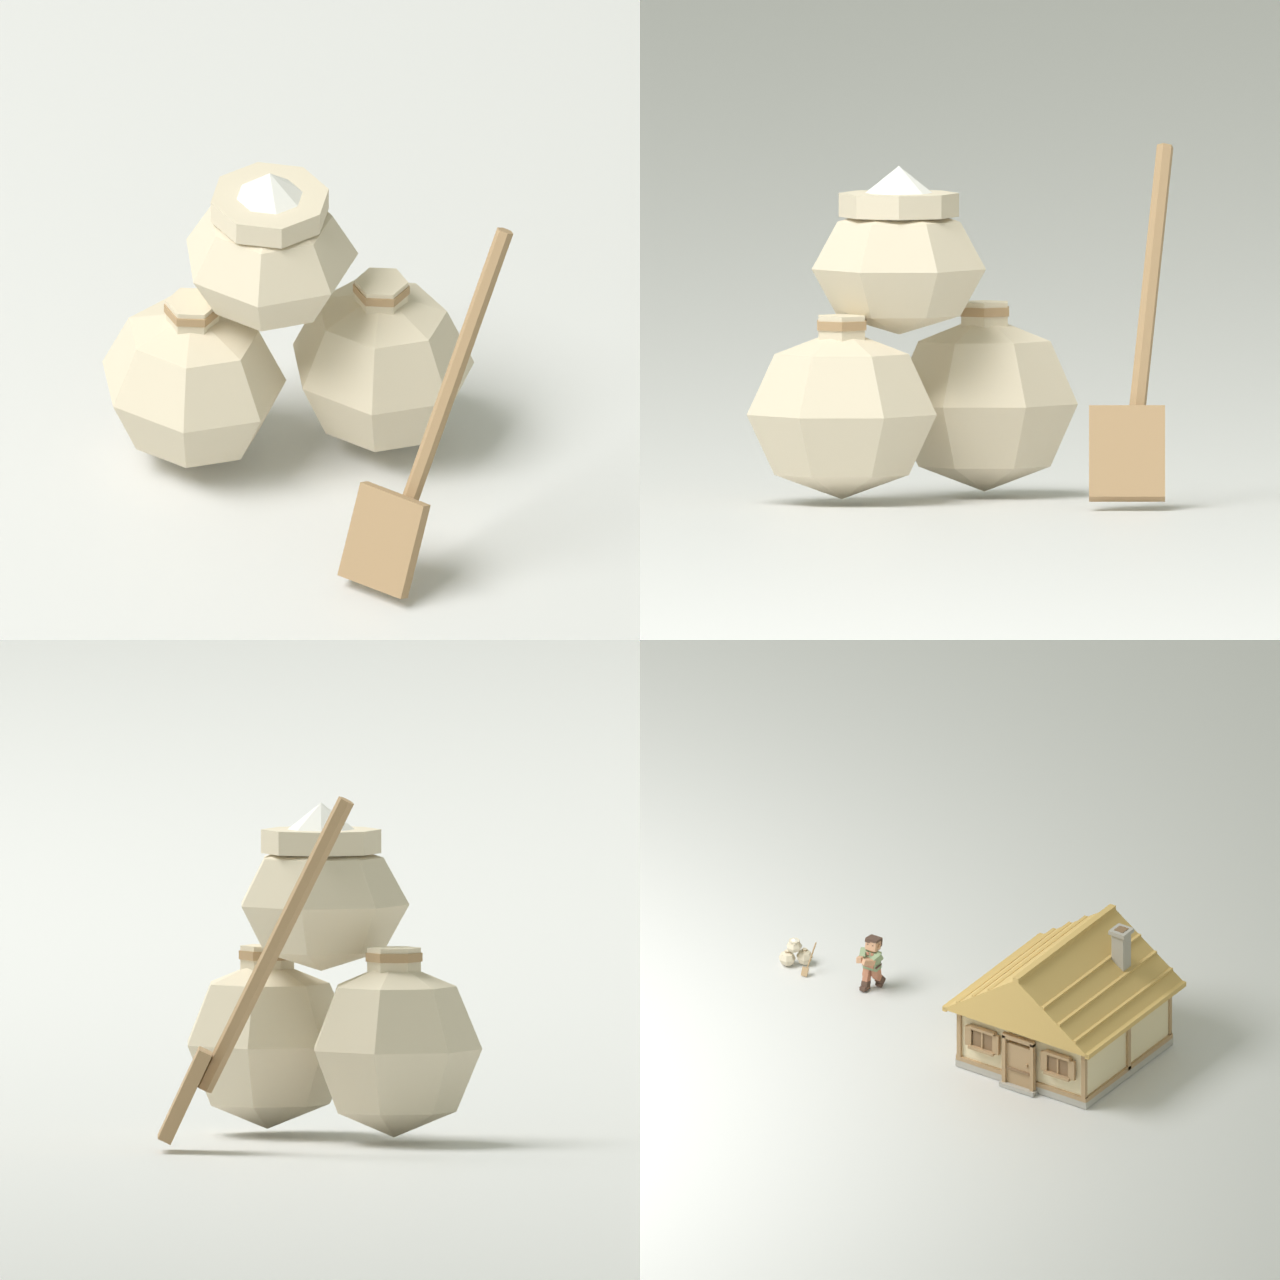
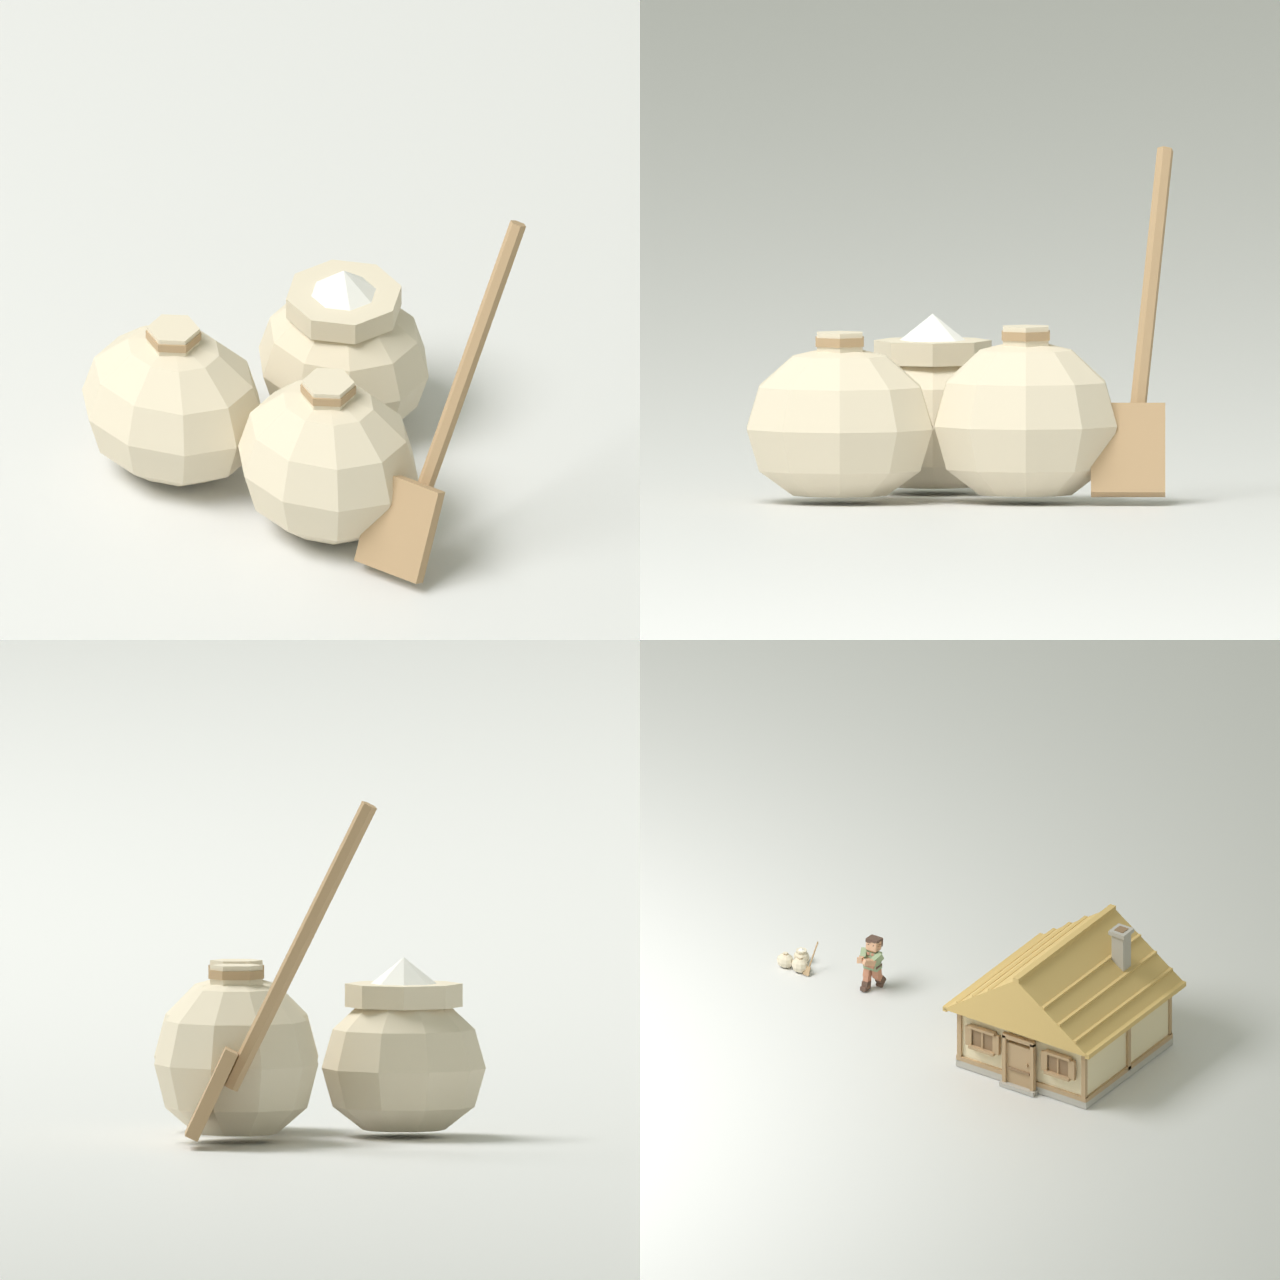
Art: ground salter sacks and add model overview

diff --git a/artifacts/graphics/astra/make_contact_sheet.py b/artifacts/graphics/astra/make_contact_sheet.py
@@ -1,0 +1,59 @@
+"""Create a single review image from the candidate three-quarter views."""
+
+from pathlib import Path
+from PIL import Image, ImageDraw, ImageFont
+
+ROOT = Path(__file__).resolve().parent
+MODELS = [
+    ("hall", "Sala del rey"),
+    ("stall-pedlar", "Puesto · mercader"),
+    ("stall-factor", "Puesto · factor"),
+    ("stall-salter", "Puesto · sal"),
+    ("quarry-face-intact", "Cantera · intacta"),
+    ("quarry-face-mined", "Cantera · explotada"),
+    ("quarry-face-exhausted", "Cantera · agotada"),
+    ("crag-1", "Peñasco 1"),
+    ("crag-2", "Peñasco 2"),
+    ("crag-3", "Peñasco 3"),
+    ("crag-4", "Peñasco 4"),
+    ("crag-5", "Peñasco 5"),
+    ("cairn", "Hito de piedras"),
+]
+
+COLS = 4
+CARD_W, CARD_H = 440, 500
+GAP, MARGIN, HEADER = 22, 36, 154
+ROWS = (len(MODELS) + COLS - 1) // COLS
+WIDTH = MARGIN * 2 + COLS * CARD_W + (COLS - 1) * GAP
+HEIGHT = HEADER + ROWS * CARD_H + (ROWS - 1) * GAP + MARGIN
+
+font_path = Path("C:/Windows/Fonts/arial.ttf")
+bold_path = Path("C:/Windows/Fonts/arialbd.ttf")
+title_font = ImageFont.truetype(str(bold_path), 42)
+label_font = ImageFont.truetype(str(bold_path), 25)
+detail_font = ImageFont.truetype(str(font_path), 19)
+
+canvas = Image.new("RGB", (WIDTH, HEIGHT), "#ECE9E1")
+draw = ImageDraw.Draw(canvas)
+draw.text((MARGIN, 31), "THE VALLEY · Nuevos modelos 3D", fill="#302D28", font=title_font)
+draw.text(
+    (MARGIN, 92),
+    "13 candidatos · vista de tres cuartos · cada vista encuadrada por separado",
+    fill="#6D675D",
+    font=detail_font,
+)
+
+for index, (model_id, label) in enumerate(MODELS):
+    x = MARGIN + (index % COLS) * (CARD_W + GAP)
+    y = HEADER + (index // COLS) * (CARD_H + GAP)
+    draw.rounded_rectangle((x, y, x + CARD_W, y + CARD_H), radius=14, fill="#F8F7F2")
+    with Image.open(ROOT / model_id / "sheet.png") as sheet:
+        view = sheet.crop((0, 0, 640, 640)).convert("RGB")
+    view = view.resize((CARD_W - 24, CARD_W - 24), Image.Resampling.LANCZOS)
+    canvas.paste(view, (x + 12, y + 12))
+    draw.text((x + 18, y + 439), label, fill="#2C2B26", font=label_font)
+    draw.text((x + 18, y + 470), model_id, fill="#807B72", font=detail_font)
+
+output = ROOT / "all-models-sheet.png"
+canvas.save(output, optimize=True)
+print(output)

diff --git a/art/recipes/hall-candidate/build.py b/art/recipes/hall-candidate/build.py
@@ -34,6 +34,12 @@ def build(id):
     for raw in r['primitives']:
         spec={'rotationDegrees':[0,0,0],'smooth':False,'bevel':0,**raw}
         obj=create_primitive(spec,materials)
+        if spec.get('flattenBottom') and spec['type']=='sphere':
+            # El saco apoya en una base ancha, no en el polo de la esfera.
+            bpy.ops.object.transform_apply(location=False,rotation=False,scale=True)
+            floor=-spec['dimensions'][2]*0.4
+            for vertex in obj.data.vertices:
+                vertex.co.z=max(floor,vertex.co.z)
         if spec['type']=='cube':
             obj.rotation_euler=[math.radians(v) for v in spec['rotationDegrees']]
             bpy.ops.object.transform_apply(location=False,rotation=True,scale=True)

diff --git a/artifacts/graphics/astra/stall-salter/README.md b/artifacts/graphics/astra/stall-salter/README.md
@@ -1,7 +1,7 @@
 # stall-salter · candidato Astra
 
-- Medida real X × alto × fondo: 1.346 × 1.112 × 1.025 m. GLB en celdas (1 celda = 3 m).
-- Triángulos: 280 / 600. Caras planas, sin texturas.
+- Medida real X × alto × fondo: 1.376 × 1.107 × 1.070 m. GLB en celdas (1 celda = 3 m).
+- Triángulos: 454 / 600. Caras planas, sin texturas.
 - Materiales: sack = #D3C1A0, wood = #9A744C, salt = #F4F2EC.
 - `sheet.png`: arriba izquierda tres cuartos desde arriba; arriba derecha frente (+Z); abajo izquierda perfil; abajo derecha escala con villager y house publicados, sin reescalarlos.
 - Receta: `art/recipes/stall-salter-candidate/stall-salter.json`.
